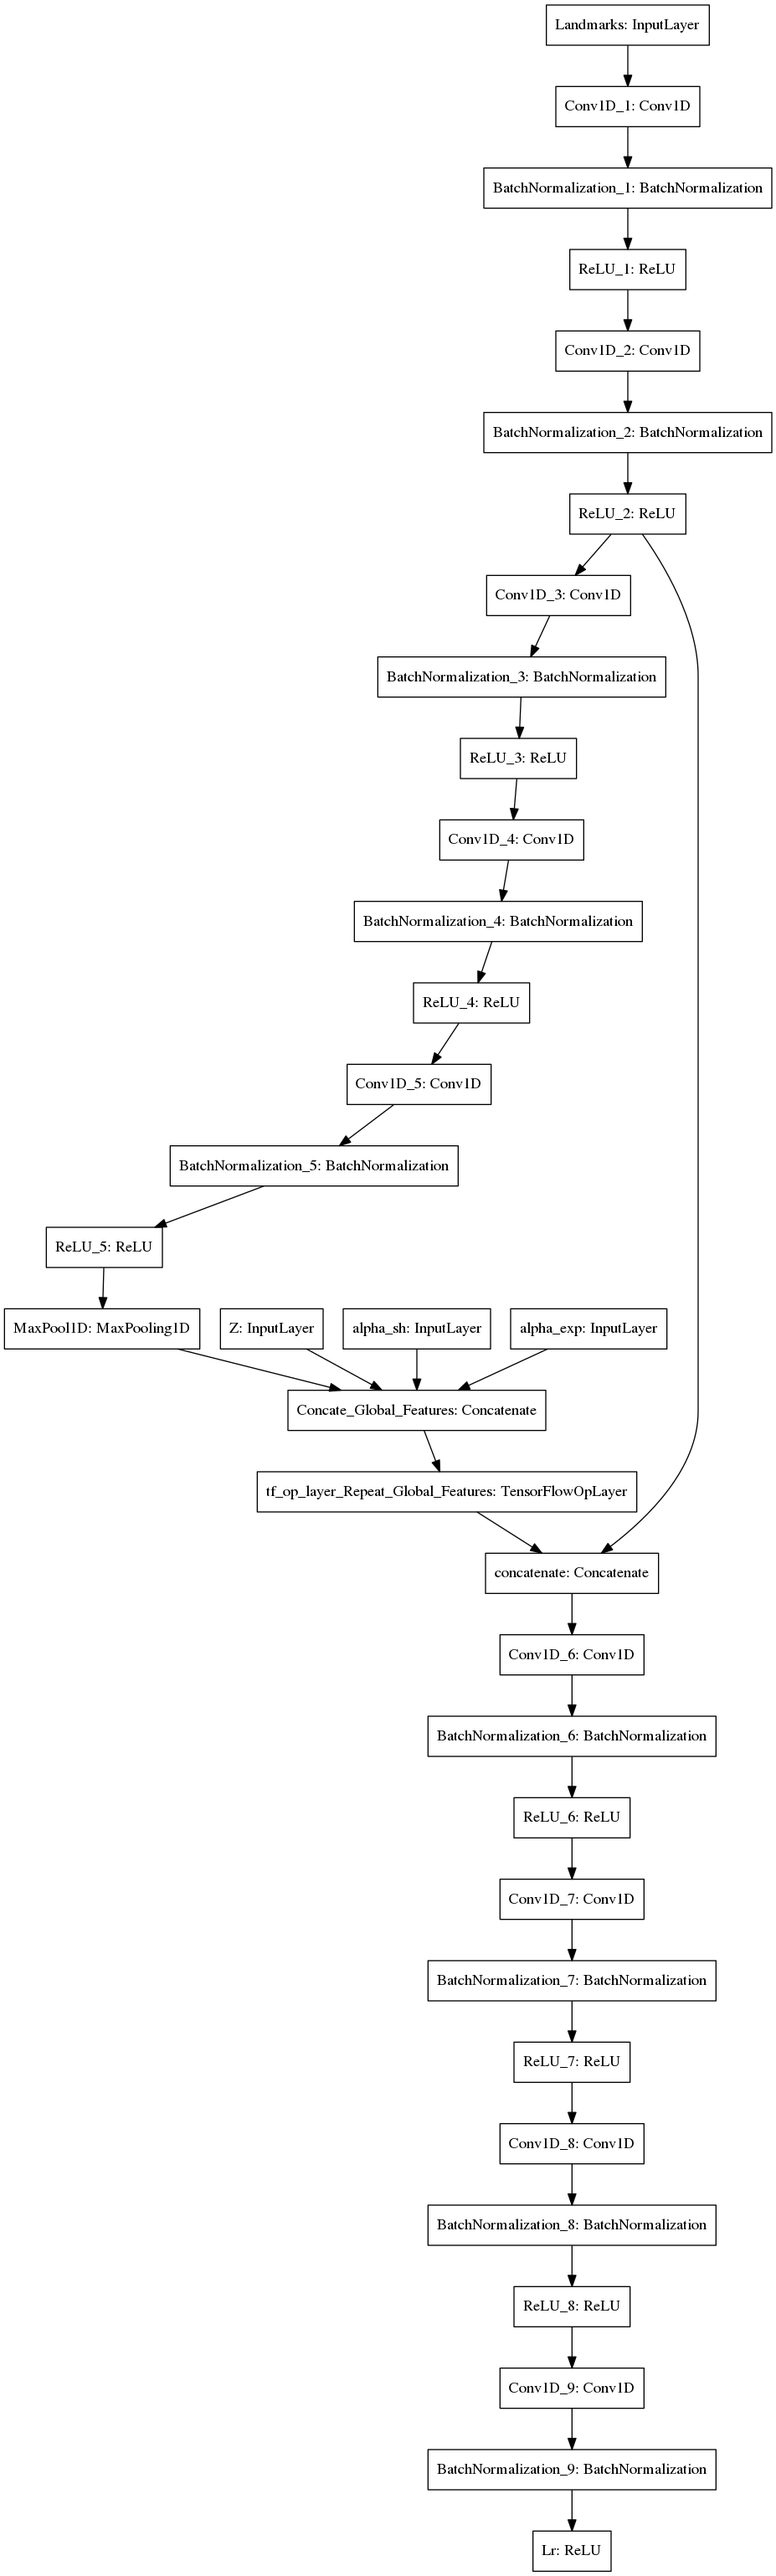
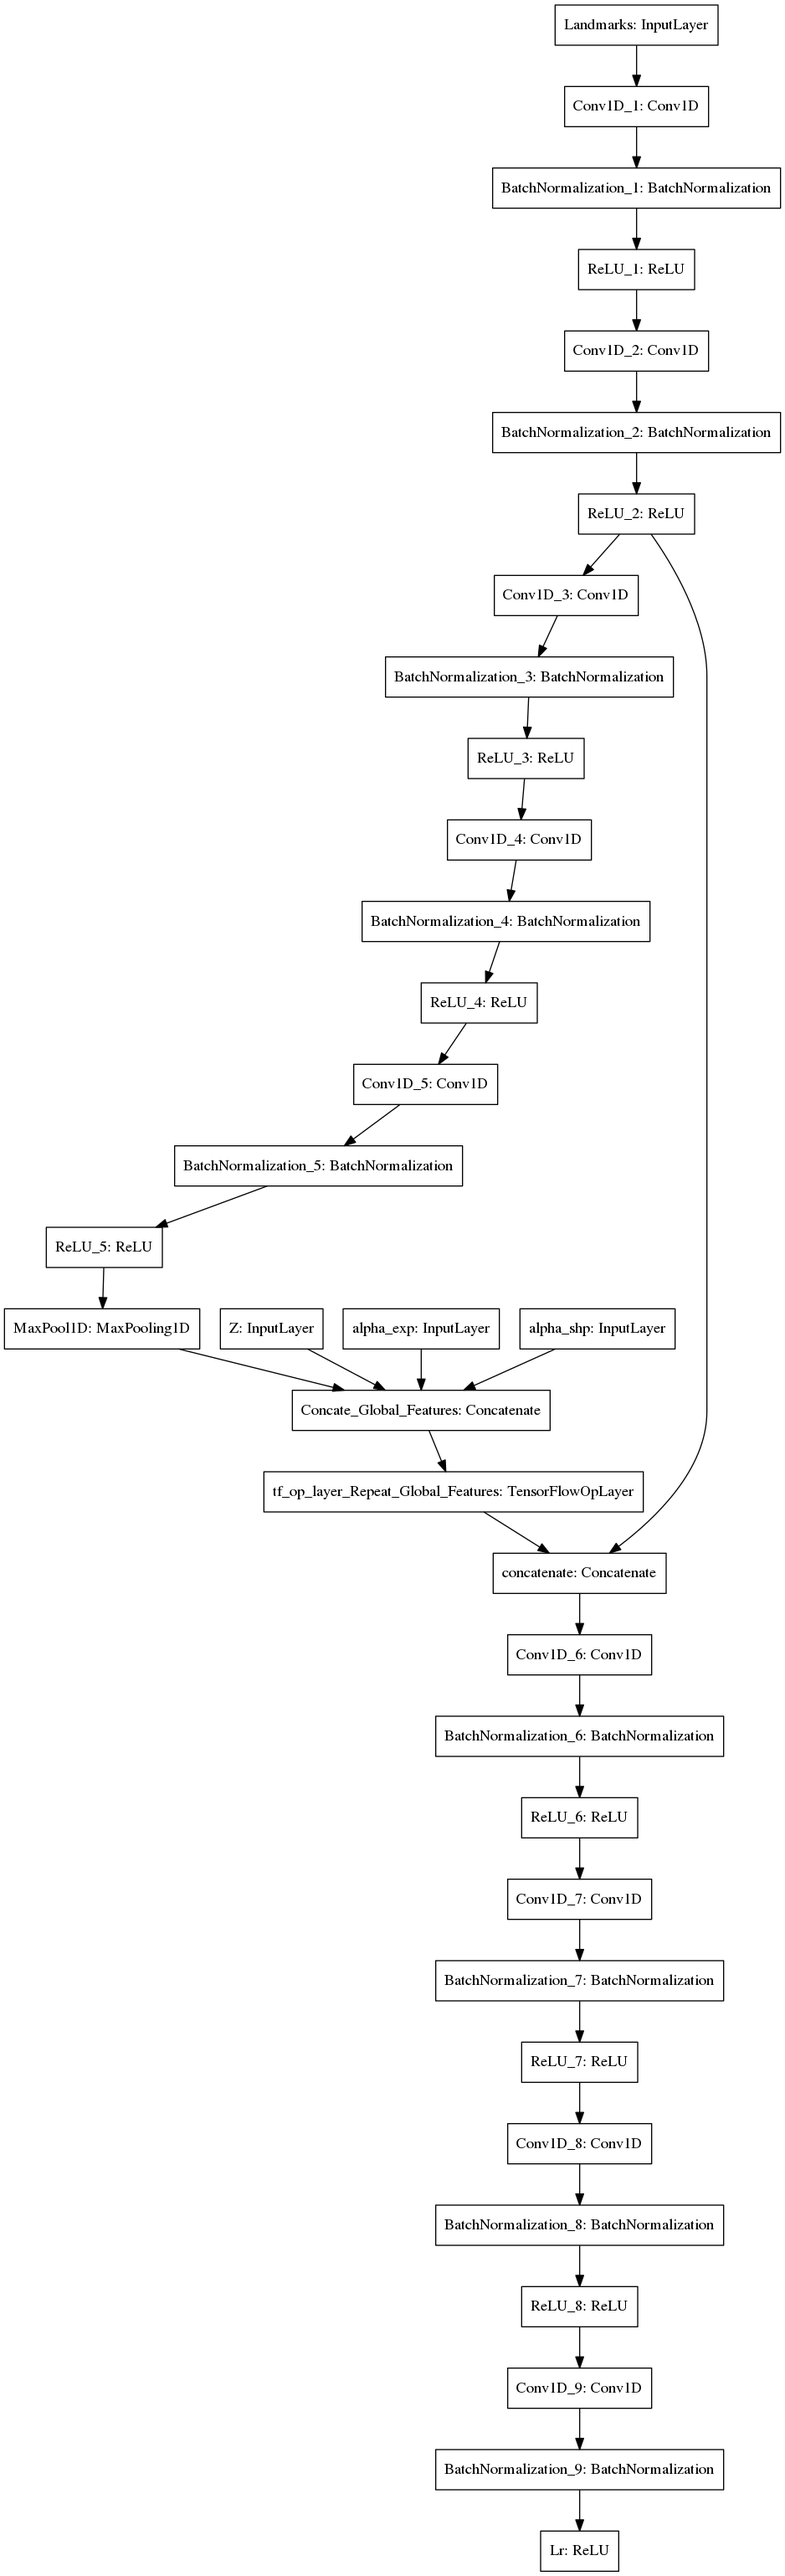
Building Synergy

diff --git a/model/morhaple_face_model.py b/model/morhaple_face_model.py
@@ -5,8 +5,8 @@ import numpy as np
 import pickle
 
 class PCA(Layer):
-    def __init__(self, height, num_landmarks=68, pca_dir = '3dmm_data/'):
-        super(PCA, self).__init__()
+    def __init__(self, height, num_landmarks=68, pca_dir = '3dmm_data/', **kwargs):
+        super(PCA, self).__init__(**kwargs)
         self.num_landmarks = num_landmarks
         self.pca_dir = pca_dir
         self.height = height
@@ -59,45 +59,23 @@ class PCA(Layer):
         :return: 4x4 transmatrix
         """
         s, R, t = self.pose_3DMM_to_sRt(pose_3DMM)
-        print("ssss = ", s)
-        T = tf.Variable(tf.zeros((4, 4)))
+        T = tf.Variable(lambda: tf.zeros((4, 4)))
         T = T[0:3, 0:3].assign(R)
         T = T[3, 3].assign(1.0)
         # scale
         S = tf.linalg.diag([s, s, s, 1.0])
         T = tf.matmul(S, T)
         # offset move
-        M = tf.Variable(tf.linalg.diag([1.0, 1.0, 1.0, 1.0]))
-        print("__________________")
-        print("M = ", M)
+        M = tf.Variable(lambda: tf.linalg.diag([1.0, 1.0, 1.0, 1.0]))
         t = tf.reshape(t, [-1])
-        print("t = ", t)
-        print("_________________")
         M = M[0:3, 3].assign(tf.cast(t, tf.float32))
-        print("M = ", M)
         T = tf.matmul(M, T)
         # revert height
-        H = tf.Variable(tf.linalg.diag([1.0, 1.0, 1.0, 1.0]))
+        H = tf.Variable(lambda: tf.linalg.diag([1.0, 1.0, 1.0, 1.0]))
         H = H[1, 1].assign(-1.0)
         H = H[1, 3].assign(height)
         T = tf.matmul(H, T)
         return tf.cast(T, tf.float32)
-
-    def eulerAngles_to_RotationMatrix(self, theta):
-        x, y, z = theta[0], theta[1], theta[2]
-        Rx = tf.Variable([[1,          0,         0],
-                          [0,  tf.cos(x), tf.sin(x)],
-                          [0, -tf.sin(x), tf.cos(x)]], trainable=False)
-
-        Ry = tf.Variable([[tf.cos(y), 0, -tf.sin(y)],
-                          [        0, 1,          0],
-                          [tf.sin(y), 0,  tf.cos(y)]], trainable=False)
-                    
-        Rz = tf.Variable([[tf.cos(z) , tf.sin(z), 0],
-                          [-tf.sin(z), tf.cos(z), 0],
-                          [0         ,         0, 1]], trainable=False)
-        R = tf.matmul(Rx, tf.matmul(Ry, Rz))
-        return R
     
     def pose_3DMM_to_sRt(self, pose_3DDM):
         T = tf.reshape(pose_3DDM, (3, 4))

diff --git a/model/decoder.py b/model/decoder.py
@@ -3,8 +3,8 @@ from tensorflow.keras.layers import Input, Conv1D, Dense, BatchNormalization
 from tensorflow.keras.layers import ReLU, MaxPool1D, concatenate
 from tensorflow.keras import Model
 
-def Landmarks_to_3DMM(num_points=62):
-    Lr = Input(shape=(68, 3), name='Refined_Landmarks')
+def Landmarks_to_3DMM(num_classes=62, num_points=68):
+    Lr = Input(shape=(num_points, 3), name='Refined_Landmarks')
 
     # First hidden layer
     conv1 = Conv1D(filters=64, kernel_size=1, name='Conv1D_1')(Lr)
@@ -32,22 +32,22 @@ def Landmarks_to_3DMM(num_points=62):
     relu5 = ReLU(name='ReLU_5')(bn5)
 
     # Global Features (Holistic landmark features)
-    global_features = MaxPool1D(pool_size=num_points, name='MaxPool1D')(relu5)
+    global_features = MaxPool1D(pool_size=num_classes, name='MaxPool1D')(relu5)
 
     # Regressing pose parameters
     conv6 = Conv1D(filters=12, kernel_size=1, name='Conv1D_6')(global_features)
     bn6 = BatchNormalization(name='BatchNormalization_6')(conv6)
-    pose = ReLU(name='ReLU_6')(bn6)
-
-    # Regressing shape parameters
-    conv7 = Conv1D(filters=40, kernel_size=1, name='Conv1D_7')(global_features)
-    bn7 = BatchNormalization(name='BatchNormalization_7')(conv7)
-    alpha_sh = ReLU(name='ReLU_7')(bn7)
+    pose_3DMM = ReLU(name='ReLU_6')(bn6)
 
     # Regressing expression parameters
-    conv8 = Conv1D(filters=10, kernel_size=1, name='Conv1D_8')(global_features)
-    bn8 = BatchNormalization(name='BatchNormalization_8')(conv8)
-    alpha_exp = ReLU(name='ReLU_8')(bn8)
+    conv7 = Conv1D(filters=10, kernel_size=1, name='Conv1D_7')(global_features)
+    bn7 = BatchNormalization(name='BatchNormalization_7')(conv7)
+    alpha_exp = ReLU(name='ReLU_7')(bn7)
 
-    model = Model(inputs=[Lr], outputs=[pose, alpha_sh, alpha_exp], name='Landmarks_to_3DMM')
+    # Regressing shape parameters
+    conv8 = Conv1D(filters=40, kernel_size=1, name='Conv1D_8')(global_features)
+    bn8 = BatchNormalization(name='BatchNormalization_8')(conv8)
+    alpha_shp = ReLU(name='ReLU_8')(bn8)
+
+    model = Model(inputs=[Lr], outputs=[pose_3DMM, alpha_exp, alpha_shp], name='Landmarks_to_3DMM')
     return model

diff --git a/model/encoder.py b/model/encoder.py
@@ -4,12 +4,12 @@ from tensorflow.keras.layers import ReLU, MaxPool1D, concatenate
 from tensorflow.keras import Model
 
 def MMFA(num_points=68):
-    # Z, alpha_sh, alpha_exp, Lc
+    # Z, alpha_shp, alpha_exp, Lc
     # Define input layers
     Lc = Input(shape=(68, 3), name='Landmarks')
     Z = Input(shape=(1, 1280), name='Z')
     alpha_exp = Input(shape=(1, 10), name='alpha_exp')
-    alpha_sh = Input(shape=(1, 40), name='alpha_sh')
+    alpha_shp = Input(shape=(1, 40), name='alpha_shp')
 
     # First hidden layer
     conv1 = Conv1D(filters=64, kernel_size=1, name='Conv1D_1')(Lc)
@@ -43,7 +43,7 @@ def MMFA(num_points=68):
     global_features = MaxPool1D(pool_size=num_points, name='MaxPool1D')(relu5)
     
     # Aggregate point features and global features
-    concate = concatenate([global_features, Z, alpha_sh, alpha_exp], name='Concate_Global_Features')
+    concate = concatenate([global_features, Z, alpha_exp, alpha_shp], name='Concate_Global_Features')
     concate_repeat = tf.tile(concate, (1, num_points, 1), name='Repeat_Global_Features')
     aggregate = concatenate([point_features, concate_repeat])
     
@@ -67,5 +67,5 @@ def MMFA(num_points=68):
     bn9 = BatchNormalization(name='BatchNormalization_9')(conv9)
     Lr = ReLU(name='Lr')(bn9)
 
-    model = Model(inputs=[Lc, Z, alpha_sh, alpha_exp], outputs=[Lr], name='MFFA')
+    model = Model(inputs=[Lc, Z, alpha_exp, alpha_shp], outputs=[Lr], name='MFFA')
     return model

diff --git a/model/synergy.py b/model/synergy.py
@@ -11,17 +11,23 @@ from tensorflow.keras.layers import Input, GlobalAveragePooling2D, Dense, Dropou
 # PCA()
 # create_MobileNetV2()
 
-def create_synergy(input_shape, classes=62):
+def create_synergy(input_shape, num_classes=62, num_points=68):
     inputs = Input(shape=input_shape)
-    X = create_MobileNetV2(input_shape=input_shape, classes=classes)(inputs)
+    X = create_MobileNetV2(input_shape=input_shape, classes=num_classes)(inputs)
     X_flattened = Flatten(name='Flatten')(X)
     Z = GlobalAveragePooling2D(name='Global_Avg_Pooling')(X)
     X_p = Dropout(0.2)(X_flattened)
-    pose_para = Dense(name='pose_para', units=12)(X_p)
+    pose_3DMM = Dense(name='pose_3DMM', units=12)(X_p)
     X_exp = Dropout(0.2)(X_flattened)
     alpha_exp = Dense(name='alpha_exp', units=10)(X_exp)
     X_shape = Dropout(0.2)(X_flattened)
     alpha_shp = Dense(name='alpha_shp', units=40)(X_shape)
 
-    model = Model(inputs=[inputs], outputs=[Z, pose_para, alpha_exp, alpha_shp], name='Synergy')
+    morphable_model = PCA(height=input_shape[0], name='Morphable_layer')
+    Lc = morphable_model(pose_3DMM, alpha_exp, alpha_shp)
+
+    Lr = MMFA(num_points=num_points)(Lc, Z, alpha_exp, alpha_shp)
+    pose_3DMM, alpha_exp, alpha_shp = Landmarks_to_3DMM(num_classes=num_classes,\
+         num_points=num_points)(Lr)
+    model = Model(inputs=[inputs], outputs=[pose_3DMM, Lc, Lr, alpha_exp, alpha_shp], name='Synergy')
     return model

diff --git a/try.py b/try.py
@@ -154,10 +154,8 @@ pose_3dmm = np.ravel(pose_to_3DMM(pose_para))
 shape_para = np.ravel(bfm_info['Shape_Para'][0:40])
 exp_para = np.ravel(bfm_info['Exp_Para'][0:10])
 
-R = eulerAngles_to_RotationMatrix(pose_para[0:3])
-print("R_true = ", R)
+
 pca = PCA(height=height)
-print(pose_3dmm.shape, exp_para.shape, shape_para.shape)
 vertices_tf = pca.call(pose_3dmm, exp_para, shape_para)
 vertices = tf.compat.v1.make_tensor_proto(vertices_tf)  # convert `tensor a` to a proto tensor
 vertices = tf.make_ndarray(vertices)
@@ -170,8 +168,7 @@ print(vertices.shape)
 # print('_____________________________________________')
 s = pose_para[-1]
 angles = pose_para[:3]
-print('True angles: ', angles)
-print('true_inv: ', label_3DDm_to_pose(label))
+
 t = pose_para[3:6]
 
 # T_bfm = get_transform_matrix(s, angles, t, height)

diff --git a/train.py b/train.py
@@ -26,13 +26,13 @@ validation_data_generator = data_generator.DataGenerator(partition_LP['valid'], 
 #300W-LP/300W_LP/AFW/AFW_134212_1_2 #300W-LP/300W_LP/AFW/AFW_3989161_1_0
 image, label = training_data_generator.get_one_instance('300W-LP/300W_LP/AFW/AFW_134212_1_2')
 
-# model1 = MMFA()
-# print(model1.summary())
-# tf.keras.utils.plot_model(model1, "encoder.png")
+model1 = MMFA()
+print(model1.summary())
+tf.keras.utils.plot_model(model1, "encoder.png")
 
-# model2 = Landmarks_to_3DMM()
-# print(model2.summary())
-# tf.keras.utils.plot_model(model2, "decoder.png")
+model2 = Landmarks_to_3DMM()
+print(model2.summary())
+tf.keras.utils.plot_model(model2, "decoder.png")
 #print(*label_3DDm_to_pose(label))
 plot_pose_image(image, label)
 #print(label_3DDm_to_pt2d(label))
